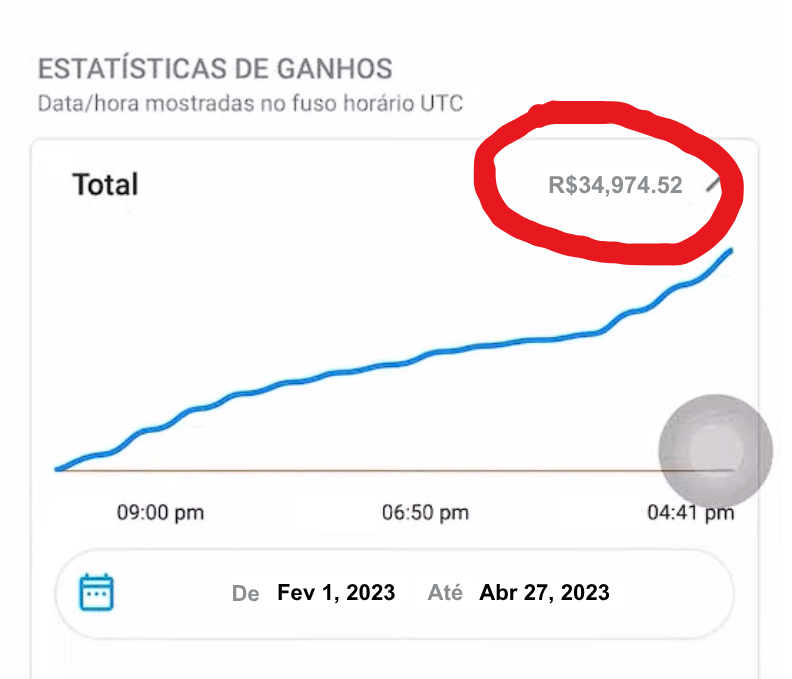
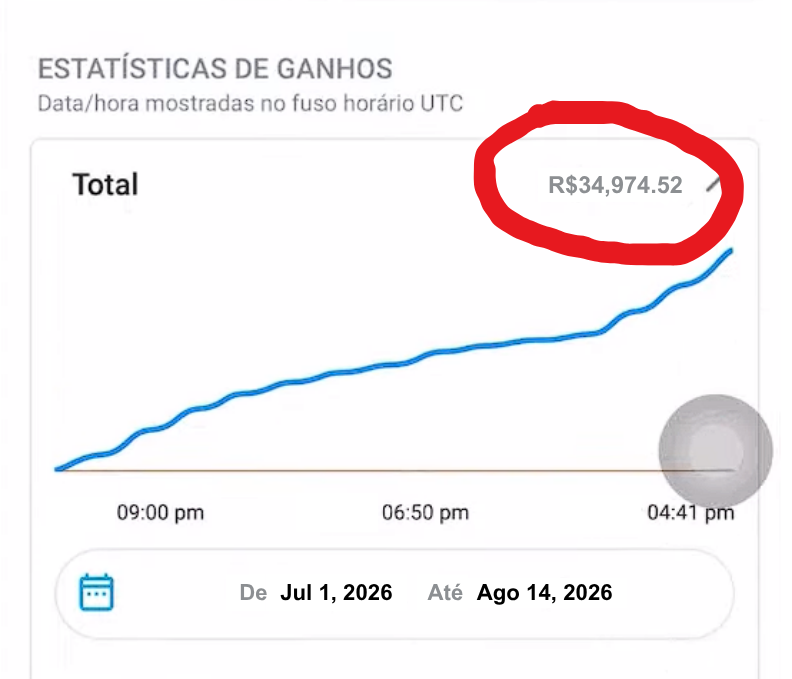
feat: pixel da Meta + carregador de imagens sequencial
- pixel 1583309593342549 com PageView e noscript
- galerias buscam as imagens em sequencia e param no primeiro buraco,
  em vez de testar todas as combinacoes (80 requisicoes 404 -> 26,
  e vai a zero conforme as imagens forem subidas)

Changed region(s): [[0.2727, 0.8351, 0.5152, 0.8969], [0.6061, 0.8351, 0.7879, 0.8969]]

diff --git a/index.html b/index.html
@@ -14,9 +14,12 @@ n.queue=[];t=b.createElement(e);t.async=!0;
 t.src=v;s=b.getElementsByTagName(e)[0];
 s.parentNode.insertBefore(t,s)}(window, document,'script',
 'https://connect.facebook.net/en_US/fbevents.js');
-fbq('init', 'SEU_PIXEL_ID_AQUI');
+fbq('init', '1583309593342549');
 fbq('track', 'PageView');
 </script>
+<noscript><img height="1" width="1" style="display:none"
+src="https://www.facebook.com/tr?id=1583309593342549&ev=PageView&noscript=1"
+/></noscript>
 <style>
 *,*::before,*::after{box-sizing:border-box;margin:0;padding:0}
 html{-webkit-text-size-adjust:100%}
@@ -1115,22 +1118,23 @@ function carregarSlot(el){
     return;
   }
 
+  // busca sequencial: para no primeiro numero que faltar.
+  // evita disparar dezenas de 404 quando as imagens ainda nao foram subidas.
   const achadas = [];
-  let pendentes = multi;
-  for(let i = 1; i <= multi; i++){
-    (function(idx){
-      tentarCarregar(base + "-" + idx, src=>{
-        if(src) achadas[idx] = src;
-        if(--pendentes === 0) montar();
-      });
-    })(i);
-  }
+  (function proximo(i){
+    if(i > multi) return montar();
+    tentarCarregar(base + "-" + i, src=>{
+      if(!src) return montar();
+      achadas.push(src);
+      proximo(i + 1);
+    });
+  })(1);
+
   function montar(){
-    const lista = achadas.filter(Boolean);
-    if(!lista.length) return;
+    if(!achadas.length) return;
     el.dataset.carregado = "1";
-    el.className = "galeria " + (lista.length === 1 ? "g1" : "g2") + " reveal";
-    el.innerHTML = lista.map(src=>'<img src="'+src+'" alt="" />').join("");
+    el.className = "galeria " + (achadas.length === 1 ? "g1" : "g2") + " reveal";
+    el.innerHTML = achadas.map(src=>'<img src="'+src+'" alt="" />').join("");
   }
 }
 
